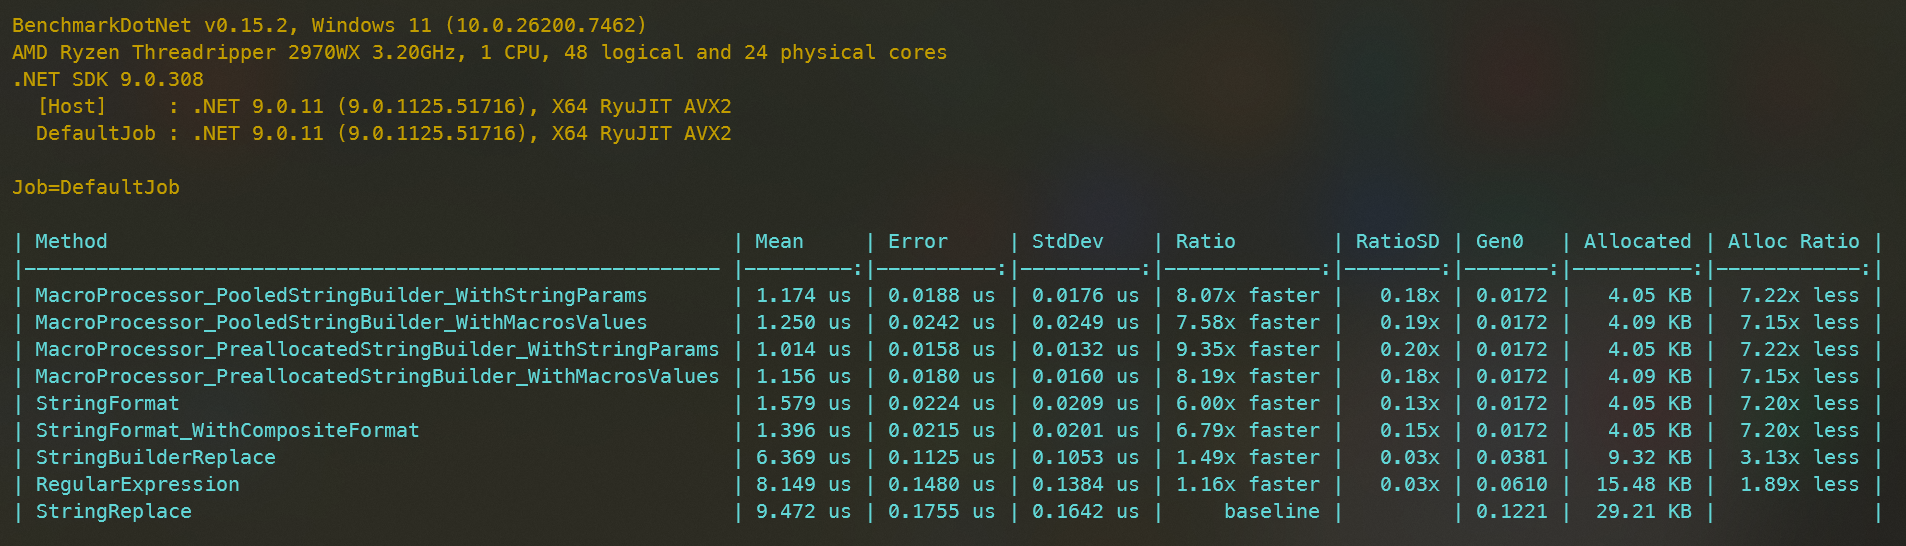
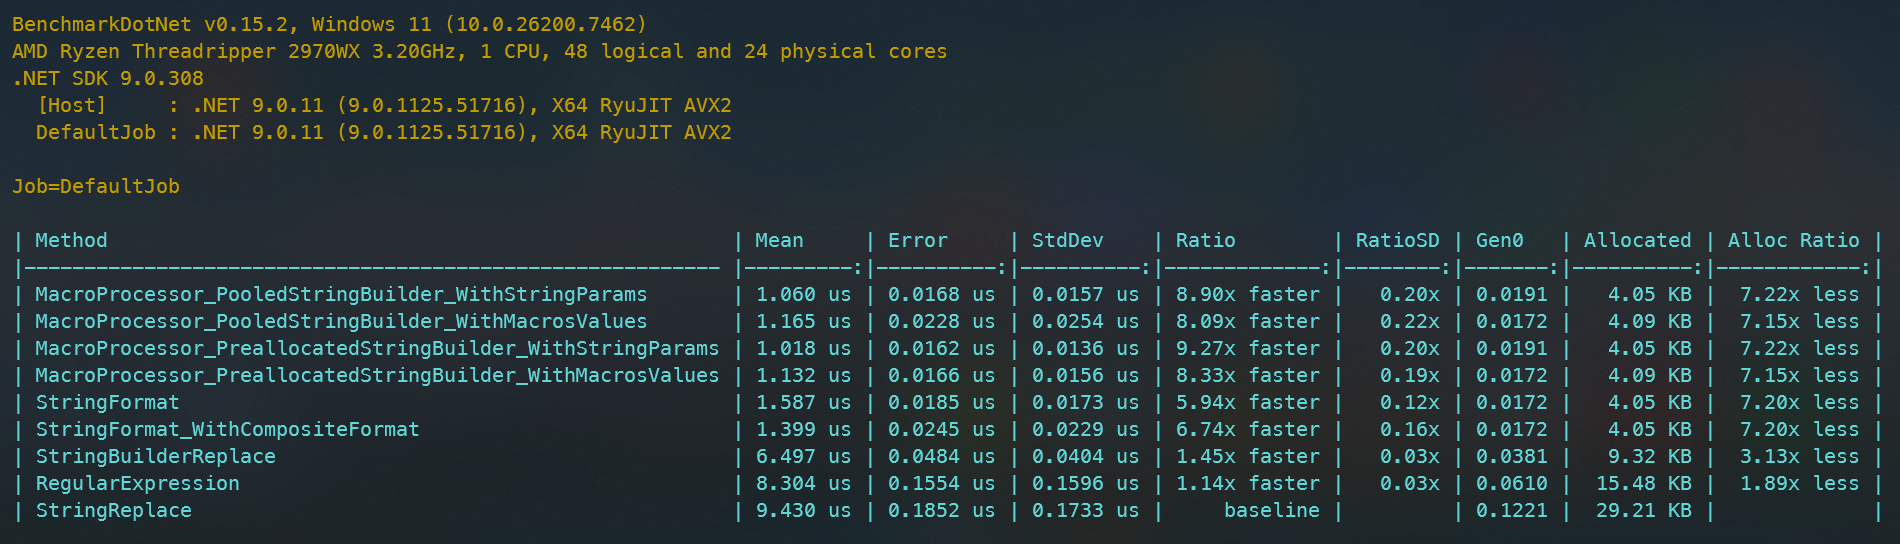
Optimized StringBuilderPool and fixed data race in Return()
- Using ConcurrentQueue instead of ConcurrentBag
- Keeping atomic count to prevent expensive locking
- Using spin-lock to avoid potential data-race in Return.

diff --git a/TemplateEngine/MacroProcessor.cs b/TemplateEngine/MacroProcessor.cs
@@ -1,6 +1,6 @@
 // Module Name: MacroProcessor.cs
 // Author:      Eduardo Velasquez
-// Copyright (c) 2025, Intercode Consulting, Inc.
+// Copyright (c) 2026, Intercode Consulting, Inc.
 
 namespace Intercode.Toolbox.TemplateEngine;
 
@@ -49,6 +49,7 @@ public static class MacroProcessor
     {
       var segment = segments[index];
 
+      // Handle constant segments
       if( segment.Kind == SegmentKind.Constant )
       {
 #if NET6_0_OR_GREATER
@@ -77,37 +78,6 @@ public static class MacroProcessor
       }
 
       builder.Append( value );
-    }
-  }
-
-  /// <summary>
-  ///   Processes macros in the specified <see cref="Template" /> and returns the resulting string.
-  /// </summary>
-  /// <param name="template">The <see cref="Template" /> containing the macros to process.</param>
-  /// <param name="macroValues">The <see cref="MacroValues" /> providing values for the macros in the template.</param>
-  /// <returns>A string with the macros in the template replaced by their corresponding values.</returns>
-  /// <remarks>
-  ///   This method processes the macros in the provided template using the specified macro values.
-  ///   It utilizes a pooled <see cref="StringBuilder" /> for efficient string manipulation.
-  /// </remarks>
-  /// <exception cref="ArgumentNullException">
-  ///   Thrown if <paramref name="template" /> or <paramref name="macroValues" /> is <c>null</c>.
-  /// </exception>
-  public static string ProcessMacros(
-    this Template template,
-    MacroValues macroValues )
-  {
-    var pool = StringBuilderPool.Default;
-    var builder = pool.Get();
-
-    try
-    {
-      template.ProcessMacros( builder, macroValues );
-      return builder.ToString();
-    }
-    finally
-    {
-      pool.Return( builder );
     }
   }
 
@@ -146,6 +116,7 @@ public static class MacroProcessor
     {
       var segment = segments[index];
 
+      // Handle constant segments
       if( segment.Kind == SegmentKind.Constant )
       {
 #if NET6_0_OR_GREATER
@@ -199,6 +170,37 @@ public static class MacroProcessor
     params string?[] values )
   {
     template.ProcessMacros( builder, values.AsSpan() );
+  }
+
+  /// <summary>
+  ///   Processes macros in the specified <see cref="Template" /> and returns the resulting string.
+  /// </summary>
+  /// <param name="template">The <see cref="Template" /> containing the macros to process.</param>
+  /// <param name="macroValues">The <see cref="MacroValues" /> providing values for the macros in the template.</param>
+  /// <returns>A string with the macros in the template replaced by their corresponding values.</returns>
+  /// <remarks>
+  ///   This method processes the macros in the provided template using the specified macro values.
+  ///   It utilizes a pooled <see cref="StringBuilder" /> for efficient string manipulation.
+  /// </remarks>
+  /// <exception cref="ArgumentNullException">
+  ///   Thrown if <paramref name="template" /> or <paramref name="macroValues" /> is <c>null</c>.
+  /// </exception>
+  public static string ProcessMacros(
+    this Template template,
+    MacroValues macroValues )
+  {
+    var pool = StringBuilderPool.Default;
+    var builder = pool.Get();
+
+    try
+    {
+      template.ProcessMacros( builder, macroValues );
+      return builder.ToString();
+    }
+    finally
+    {
+      pool.Return( builder );
+    }
   }
 
   /// <summary>

diff --git a/TemplateEngine/StringBuilderPool.cs b/TemplateEngine/StringBuilderPool.cs
@@ -1,10 +1,11 @@
 // Module Name: StringBuilderPool.cs
 // Author:      Eduardo Velasquez
-// Copyright (c) 2024, Intercode Consulting, Inc.
+// Copyright (c) 2025, Intercode Consulting, Inc.
 
 namespace Intercode.Toolbox.TemplateEngine;
 
 using System.Collections.Concurrent;
+using System.Runtime.CompilerServices;
 using System.Text;
 
 /// <summary>
@@ -15,8 +16,9 @@ public class StringBuilderPool
 {
   #region Fields
 
-  private readonly ConcurrentBag<StringBuilder> _pool;
+  private readonly ConcurrentQueue<StringBuilder> _pool;
   private readonly int _initialBuilderCapacity;
+  private int _count;
 
   #endregion
 
@@ -33,7 +35,7 @@ public class StringBuilderPool
   {
     _initialBuilderCapacity = initialBuilderCapacity;
     MaxPoolSize = maxPoolSize;
-    _pool = new ConcurrentBag<StringBuilder>();
+    _pool = new ConcurrentQueue<StringBuilder>();
   }
 
   #endregion
@@ -48,7 +50,7 @@ public class StringBuilderPool
   /// <summary>
   ///   The number of <see cref="StringBuilder" /> instances in the pool.
   /// </summary>
-  public int Size => _pool.Count;
+  public int Size => _count;
 
   /// <summary>
   ///   The maximum number of <see cref="StringBuilder" /> instances in the pool.
@@ -63,14 +65,16 @@ public class StringBuilderPool
   ///   Gets a <see cref="StringBuilder" /> object from the pool.
   /// </summary>
   /// <returns>A <see cref="StringBuilder" /> object.</returns>
+  [MethodImpl( MethodImplOptions.AggressiveInlining )]
   public StringBuilder Get()
   {
-    if( _pool.TryTake( out var builder ) )
+    if( _pool.TryDequeue( out var builder ) )
     {
+      Interlocked.Decrement( ref _count );
       return builder;
     }
 
-    return new StringBuilder( _initialBuilderCapacity );
+    return CreateBuilder();
   }
 
   /// <summary>
@@ -82,6 +86,7 @@ public class StringBuilderPool
   ///   If the pool is full, the builder instance will not be added to the pool and will be made available for
   ///   collection.
   /// </remarks>
+  [MethodImpl( MethodImplOptions.AggressiveInlining )]
   public void Return(
     StringBuilder builder )
   {
@@ -92,10 +97,47 @@ public class StringBuilderPool
 
     builder.Clear();
 
-    if( _pool.Count < MaxPoolSize )
+    if( !TryIncrementCount() )
     {
-      _pool.Add( builder );
+      return;
     }
+
+    _pool.Enqueue( builder );
+  }
+
+  #endregion
+
+  #region Implementation
+
+  [MethodImpl( MethodImplOptions.NoInlining )]
+  private StringBuilder CreateBuilder()
+  {
+    return new StringBuilder( _initialBuilderCapacity );
+  }
+
+  /// <summary>
+  ///   Atomically increments the count if below <see cref="MaxPoolSize" />.
+  /// </summary>
+  /// <returns><c>true</c> if the count was incremented; otherwise, <c>false</c>.</returns>
+  [MethodImpl( MethodImplOptions.AggressiveInlining )]
+  private bool TryIncrementCount()
+  {
+    int currentCount;
+    int newCount;
+
+    do
+    {
+      currentCount = _count;
+
+      if( currentCount >= MaxPoolSize )
+      {
+        return false;
+      }
+
+      newCount = currentCount + 1;
+    } while( Interlocked.CompareExchange( ref _count, newCount, currentCount ) != currentCount );
+
+    return true;
   }
 
   #endregion

diff --git a/TemplateEngine.Benchmarks/StringBuilderPoolBenchmarks.cs b/TemplateEngine.Benchmarks/StringBuilderPoolBenchmarks.cs
@@ -1,0 +1,86 @@
+// Module Name: StringBuilderPoolBenchmarks.cs
+// Author:      Eduardo Velasquez
+// Copyright (c) 2026, Intercode Consulting, Inc.
+
+namespace TemplateEngine.Benchmarks;
+
+using System.Text;
+using BenchmarkDotNet.Attributes;
+using Intercode.Toolbox.TemplateEngine;
+using Microsoft.VSDiagnostics;
+
+[CPUUsageDiagnoser]
+public class StringBuilderPoolBenchmarks
+{
+  #region Fields
+
+  private StringBuilderPool _pool = null!;
+
+  #endregion
+
+  #region Public Methods
+
+  [GlobalSetup]
+  public void Setup()
+  {
+    _pool = new StringBuilderPool( 1024, 100 );
+
+    // Pre-warm the pool with some builders
+    var builders = new StringBuilder[10];
+
+    for( var i = 0; i < builders.Length; i++ )
+    {
+      builders[i] = _pool.Get();
+    }
+
+    for( var i = 0; i < builders.Length; i++ )
+    {
+      _pool.Return( builders[i] );
+    }
+  }
+
+  [Benchmark( Baseline = true )]
+  public StringBuilder GetAndReturn_Single()
+  {
+    var builder = _pool.Get();
+    builder.Append( "Hello, World!" );
+    _pool.Return( builder );
+    return builder;
+  }
+
+  [Benchmark]
+  public void GetAndReturn_Multiple()
+  {
+    for( var i = 0; i < 100; i++ )
+    {
+      var builder = _pool.Get();
+      builder.Append( "Hello, World!" );
+      _pool.Return( builder );
+    }
+  }
+
+  [Benchmark]
+  public StringBuilder Get_FromEmptyPool()
+  {
+    // Create a fresh pool to ensure we're measuring allocation
+    var emptyPool = new StringBuilderPool( 1024, 100 );
+    return emptyPool.Get();
+  }
+
+  [Benchmark]
+  public void ConcurrentAccess()
+  {
+    Parallel.For(
+      0,
+      10,
+      _ =>
+      {
+        var builder = _pool.Get();
+        builder.Append( "Concurrent test string" );
+        _pool.Return( builder );
+      }
+    );
+  }
+
+  #endregion
+}

diff --git a/TemplateEngine.Benchmarks/MacroProcessingBenchmarks.cs b/TemplateEngine.Benchmarks/MacroProcessingBenchmarks.cs
@@ -4,7 +4,7 @@
 
 #pragma warning disable CS0618 // Type or member is obsolete
 
-namespace Intercode.Toolbox.TemplateEngine.Benchmarks;
+namespace TemplateEngine.Benchmarks;
 
 using System.Globalization;
 using System.Text;
@@ -13,6 +13,7 @@ using BenchmarkDotNet.Attributes;
 using BenchmarkDotNet.Columns;
 using BenchmarkDotNet.Configs;
 using BenchmarkDotNet.Reports;
+using Intercode.Toolbox.TemplateEngine;
 
 [Config( typeof( Config ) )]
 [MemoryDiagnoser]

diff --git a/TemplateEngine.Benchmarks/Program.cs b/TemplateEngine.Benchmarks/Program.cs
@@ -3,6 +3,6 @@
 // // Copyright (c) 2025, Intercode Consulting, Inc.
 
 using BenchmarkDotNet.Running;
-using Intercode.Toolbox.TemplateEngine.Benchmarks;
+using MacroProcessingBenchmarks = TemplateEngine.Benchmarks.MacroProcessingBenchmarks;
 
 BenchmarkSwitcher.FromAssembly(typeof(MacroProcessingBenchmarks).Assembly).Run(args);
